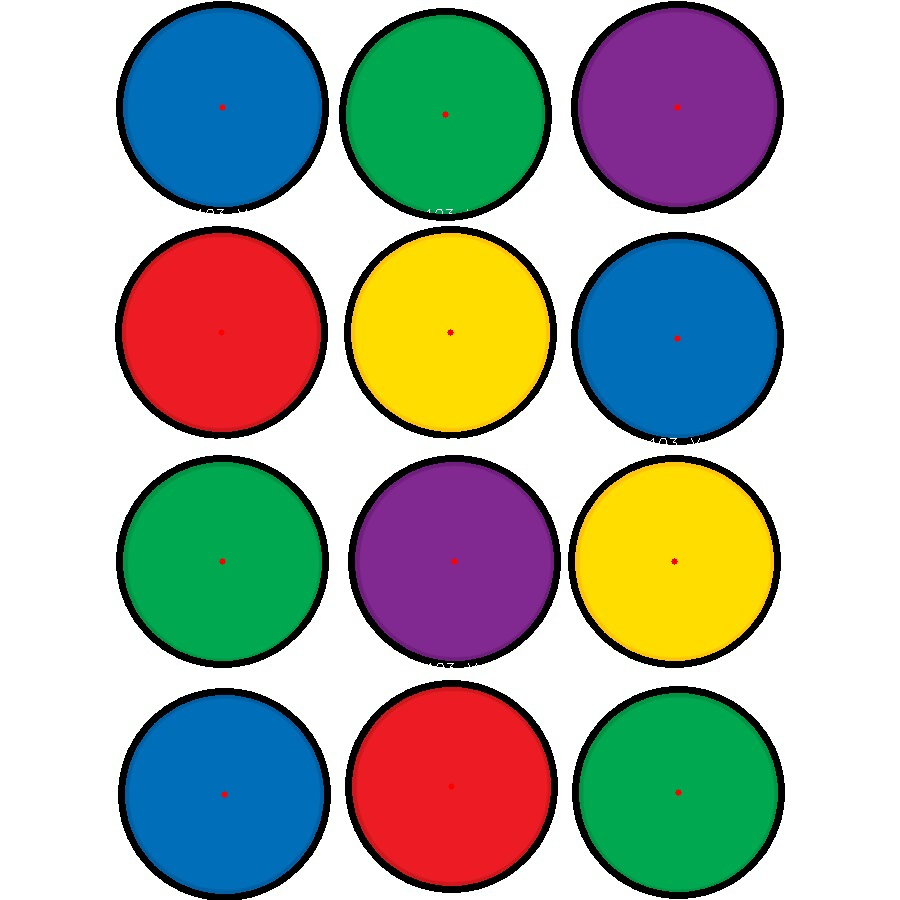
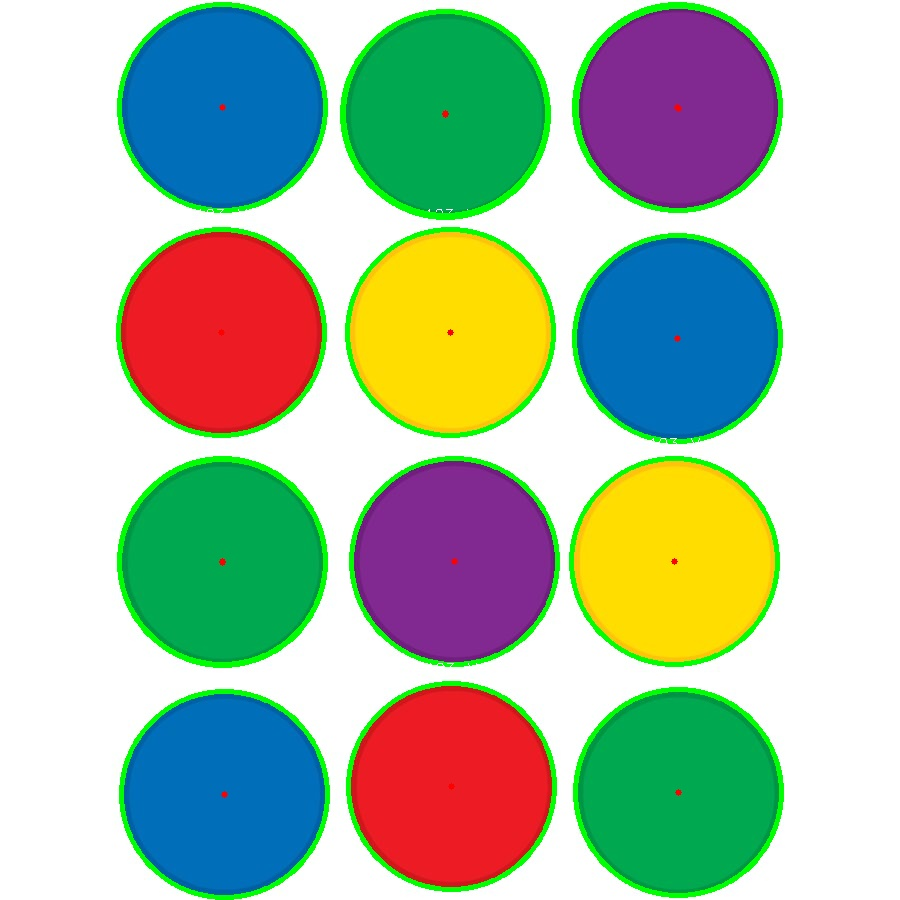
hough circle finished (almost

diff --git a/main.py b/main.py
@@ -163,7 +163,7 @@ def hough_circle_transform(edges, min_radius, max_radius, threshold=100):
             distance = np.sqrt((x - ex)**2 + (y - ey)**2)
             
             # Make non-maximum suppression less aggressive for close circles
-            if distance < max(r, er) * 0.5 and abs(r - er) < max(r, er) * 0.3:
+            if distance < max(r, er) * 0.5 and abs(r - er) < max(r, er) * 0.3 and (votes < float(threshold * (1.6))):
                 is_unique = False
                 break
         
@@ -179,7 +179,7 @@ def hough_circle_transform(edges, min_radius, max_radius, threshold=100):
     
     return filtered_circles
 
-def draw_circles(image, circles, color=(0, 0, 255), thickness=5):
+def draw_circles(image, circles, color=(0, 255, 0), thickness=3):
     """
     Draw detected circles on the image
     """
@@ -199,7 +199,7 @@ def draw_circles(image, circles, color=(0, 0, 255), thickness=5):
 
 def main():
     # Load the image
-    img_name = "bicicleta.jpg"
+    img_name = "circles.jpg"
     image_path = f"img/{img_name}"
     image = cv2.imread(image_path)
     
@@ -211,23 +211,38 @@ def main():
     
     # Apply edge detection without downscaling to maintain accuracy
     print("Applying edge detection...")
-    edges = canny_edge_detection(image, low_threshold=30, high_threshold=100)  # Lower thresholds for better edge detection
+    edges = canny_edge_detection(image, low_threshold=10, high_threshold=140)  # Lower thresholds for better edge detection
     
     # Parameters for circle detection
-    # circulos
-    # min_radius = 95
-    # max_radius = 105
-    # threshold = 10  # Lower threshold to catch all circles
+    #circulos
+    min_radius = 95
+    max_radius = 105
+    threshold = 10  
     
     # bicicleta
     # min_radius = 160
     # max_radius = 170
-    # threshold = 13  # Lower threshold to catch all circles
+    # threshold = 13  
     
     #roda gigante
-    min_radius = 160
-    max_radius = 170
-    threshold = 13  # Lower threshold to catch all circles
+    # min_radius = 160
+    # max_radius = 180
+    # threshold = 15 
+    
+    #saturno
+    # min_radius = 200
+    # max_radius = 250
+    # threshold = 10  
+    
+    # dunots-gpt
+    # min_radius = 50
+    # max_radius = 160
+    # threshold = 19
+    
+     #orange tree
+    # min_radius = 45
+    # max_radius = 60
+    # threshold = 18
     
     print(f"Detecting circles with radius {min_radius}-{max_radius}px...")
     
